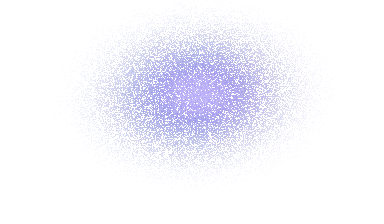
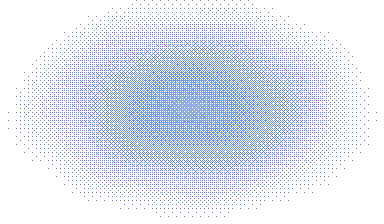
fix(web): center the pixel grain on the draft composer

Changed region(s): [[0.0625, 0.0625, 0.9062, 0.9062]]

diff --git a/apps/web/src/components/ChatView.tsx b/apps/web/src/components/ChatView.tsx
@@ -3787,14 +3787,14 @@ export default function ChatView(props: ChatViewProps) {
                   : "pointer-events-none absolute inset-x-0 bottom-0 z-20 pt-1.5 sm:pt-2"
               }
             >
-              {isDraftHeroState && !embedded ? (
-                <div className="nightshift-draft-glow" aria-hidden />
-              ) : null}
               <div ref={draftHeroTransitionGroupRef} className="chat-composer-lane w-full">
                 <div
                   data-chat-composer-stack="true"
                   className="group/composer-stack pointer-events-auto relative z-10 mx-auto w-full max-w-(--chat-content-max-width)"
                 >
+                  {isDraftHeroState && !embedded ? (
+                    <div className="nightshift-draft-glow" aria-hidden />
+                  ) : null}
                   {isDraftHeroState ? (
                     <div className="absolute inset-x-0 bottom-full">
                       <div

diff --git a/apps/web/src/index.css b/apps/web/src/index.css
@@ -2716,9 +2716,15 @@ code {
 
 .nightshift-draft-glow {
   position: absolute;
-  inset: 0;
+  z-index: -1;
+  top: 63%;
+  left: 50%;
+  width: 155%;
+  max-width: min(78rem, 100vw);
+  aspect-ratio: 384 / 224;
+  translate: -50% -50%;
   pointer-events: none;
-  background: url("/nightshift-grain.png") center 40% / min(100%, 74rem) auto no-repeat;
+  background: url("/nightshift-grain.png") center / cover no-repeat;
   image-rendering: pixelated;
   opacity: 0.24;
 
